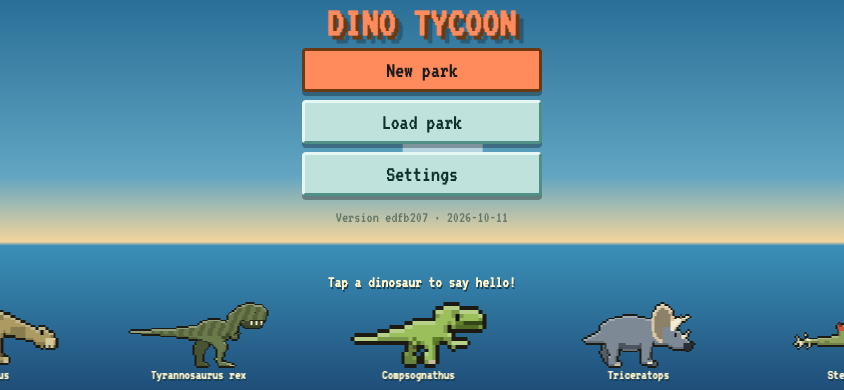
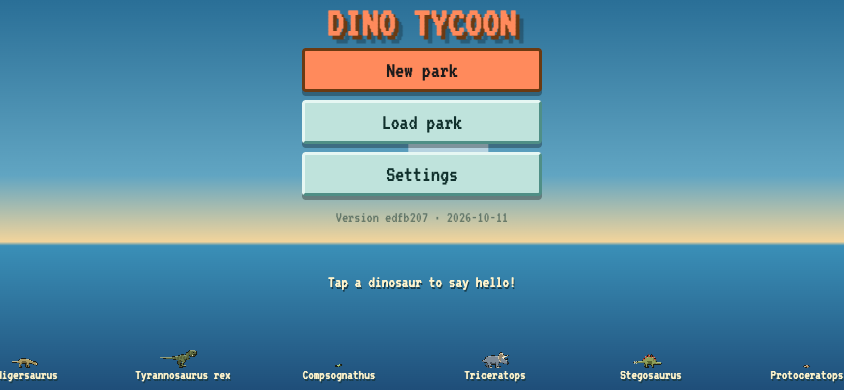
Match menu dinosaur sizes to the game and stabilize animation frames

diff --git a/src/ui/menuParade.ts b/src/ui/menuParade.ts
@@ -1,10 +1,10 @@
 import { SPECIES, SPECIES_IDS, habitatOf, type SpeciesId } from '../sim/data/species';
-import { paintMenuDino } from '../render/menuDino';
+import { paintMenuDino, menuDinoSize } from '../render/menuDino';
 import { motionFrame, type MotionClip } from '../render/immersionMotion';
 import { playCall, playSfx } from '../audio/audio';
 import { getSettings } from './settings';
 
-type Animal = { button: HTMLButtonElement; img: HTMLImageElement; id: SpeciesId; index: number; taps: number; reactionUntil: number; clip: MotionClip; frame: number };
+type Animal = { button: HTMLButtonElement; img: HTMLImageElement; id: SpeciesId; index: number; taps: number; reactionUntil: number; reactionStarted: number; clip: MotionClip; frame: number };
 
 export function mountMenuParade(root: HTMLElement): void {
   const parade = root.querySelector<HTMLElement>('.menu-parade')!;
@@ -14,10 +14,13 @@ export function mountMenuParade(root: HTMLElement): void {
   status.setAttribute('aria-live', 'polite'); status.textContent = 'Tap a dinosaur to say hello!';
   const animals: Animal[] = [];
   const frames = new Map<string, string>();
+  const sizes = new Map<SpeciesId, {width:number;height:number}>();
   function image(id: SpeciesId, clip: MotionClip, frame: number): string {
     const key = `${id}:${clip}:${frame}`;
     let url = frames.get(key);
-    if (!url) { url = paintMenuDino(id, clip, frame).toDataURL(); frames.set(key, url); }
+    if (!url) { const canvas=paintMenuDino(id,clip,frame);
+      if (!sizes.has(id)) sizes.set(id,menuDinoSize(canvas));
+      url=canvas.toDataURL();frames.set(key,url); }
     return url;
   }
   const featured: SpeciesId[] = ['tyrannosaurus','compsognathus','triceratops','stegosaurus'];
@@ -30,12 +33,18 @@ export function mountMenuParade(root: HTMLElement): void {
     const label = document.createElement('span'); label.className = 'menu-dino-name'; label.textContent = SPECIES[id].name;
     button.append(img, label); group.append(button);
   }
+  const tallest = Math.max(...[...sizes.values()].map(size=>size.height));
+  for (const button of group.querySelectorAll<HTMLButtonElement>('.menu-dino')) {
+    const size=sizes.get(button.dataset.species as SpeciesId)!;
+    button.style.setProperty('--dino-width',String(size.width/tallest));
+    button.style.setProperty('--dino-height',String(size.height/tallest));
+  }
   const duplicate = group.cloneNode(true) as HTMLElement;
   duplicate.setAttribute('aria-hidden','true');
   duplicate.querySelectorAll('button').forEach(b => b.tabIndex = -1);
   track.append(group, duplicate); parade.replaceChildren(status, track);
   for (const [index, button] of [...track.querySelectorAll<HTMLButtonElement>('.menu-dino')].entries()) {
-    const animal: Animal = {button,img:button.querySelector('img')!,id:button.dataset.species as SpeciesId,index,taps:0,reactionUntil:0,clip:'walk',frame:0};
+    const animal: Animal = {button,img:button.querySelector('img')!,id:button.dataset.species as SpeciesId,index,taps:0,reactionUntil:0,reactionStarted:0,clip:'walk',frame:0};
     animals.push(animal);
     button.addEventListener('focus', () => {
       if (!button.matches(':focus-visible') || matchMedia('(prefers-reduced-motion: reduce)').matches || !getSettings().animation) return;
@@ -49,9 +58,10 @@ export function mountMenuParade(root: HTMLElement): void {
     button.addEventListener('click', () => {
       const habitat = habitatOf(animal.id);
       const snack = animal.taps++ % 3 === 1;
-      const reaction = snack ? 'munch' : habitat === 'air' ? 'flutter' : habitat === 'water' ? 'splash' : animal.taps % 3 === 0 ? 'wiggle' : 'hop';
-      animal.clip = snack ? 'eat' : reaction === 'wiggle' ? 'idle' : 'walk';
-      animal.reactionUntil = performance.now() + 1800; animal.frame = -1;
+      const reaction = snack ? 'munch' : habitat === 'air' ? 'flutter' : habitat === 'water' ? 'splash' : SPECIES[animal.id].size >= 3 ? 'nod' : animal.taps % 3 === 0 ? 'wiggle' : 'hop';
+      animal.clip = snack ? 'eat' : reaction === 'wiggle' || reaction === 'nod' ? 'idle' : 'walk';
+      animal.reactionStarted = performance.now();
+      animal.reactionUntil = animal.reactionStarted + 1800; animal.frame = -1;
       button.dataset.reaction = reaction;
       status.textContent = snack ? `${SPECIES[animal.id].name} says yum!` : `${SPECIES[animal.id].name} says hello!`;
       track.classList.add('is-playing');
@@ -74,11 +84,11 @@ export function mountMenuParade(root: HTMLElement): void {
     for (const a of animals) {
       const reacting = a.reactionUntil > now;
       if (reacting) playing = true;
-      else if (a.button.dataset.reaction) { delete a.button.dataset.reaction; a.clip = 'walk'; }
+      else if (a.button.dataset.reaction) { delete a.button.dataset.reaction; a.clip = 'walk'; a.frame = -1; }
       const r = a.button.getBoundingClientRect();
       if (r.right < 0 || r.left > innerWidth) continue;
       const animate = !reduced.matches && getSettings().animation;
-      const frame = animate ? motionFrame(a.id,a.clip,now + a.index * 137) : 0;
+      const frame = animate ? motionFrame(a.id,a.clip,reacting ? now-a.reactionStarted : now + a.index * 137) : 0;
       if (frame !== a.frame) { a.img.src = image(a.id,a.clip,frame); a.frame = frame; }
     }
     if (!playing && track.classList.contains('is-playing')) status.textContent = 'Tap a dinosaur to say hello!';

diff --git a/src/ui/style.css b/src/ui/style.css
@@ -1352,33 +1352,33 @@ body:not(.in-park) #info {
 }
 
 .menu:not([data-screen='main']) .menu[data-screen='main'] .menu-content { height: calc(100% - 174px); padding-bottom: 14px; }
-.menu-parade { position: absolute; left: 0; right: 0; bottom: calc(var(--safe-bottom) + 6px); height: 158px; overflow: hidden; }
+.menu-parade { --parade-dino-height: 98px; position: absolute; left: 0; right: 0; bottom: calc(var(--safe-bottom) + 6px); height: 158px; overflow: hidden; }
 .menu-parade-hint { margin: 0 0 4px; text-align: center; color: #fff4cc; font-size: 12px; text-shadow: 1px 2px 0 #173b4a; min-height: 20px; }
 .menu-parade-track { display: flex; width: max-content; animation: parade 180s linear infinite; }
 .menu-parade-track.is-playing, .menu-parade-track:has(.menu-dino:focus-visible) { animation-play-state: paused; }
 .menu-parade-group { display: flex; align-items: flex-end; gap: 48px; padding-right: 48px; min-width: 100vw; flex: none; }
-.menu-dino { position: relative; display: flex; flex-direction: column; align-items: center; justify-content: flex-end; width: 204px; height: 128px; flex: none; padding: 6px 0; border: 0; box-shadow: none; background: transparent; touch-action: manipulation; cursor: pointer; }
-.menu-dino img { width: 192px; height: 98px; object-fit: contain; image-rendering: pixelated; transform-origin: center bottom; pointer-events: none; }
+.menu-dino { position: relative; display: flex; flex-direction: column; align-items: center; justify-content: flex-end; width: max(108px, calc(var(--dino-width) * var(--parade-dino-height) + 12px)); height: 128px; flex: none; padding: 6px 0; border: 0; box-shadow: none; background: transparent; touch-action: manipulation; cursor: pointer; }
+.menu-dino img { width: calc(var(--dino-width) * var(--parade-dino-height)); height: calc(var(--dino-height) * var(--parade-dino-height)); object-fit: fill; image-rendering: pixelated; transform-origin: center bottom; pointer-events: none; }
 .menu-dino-name { color: #fff4cc; text-shadow: 1px 2px 0 #173b4a; font-size: 10px; white-space: nowrap; }
 .menu-dino:focus-visible { outline: 3px solid #fff4cc; outline-offset: -3px; border-radius: 12px; }
 .menu-dino[data-reaction='hop'] img { animation: menu-hop .6s ease-in-out 3; }
 .menu-dino[data-reaction='wiggle'] img { animation: menu-wiggle .45s ease-in-out 4; }
 .menu-dino[data-reaction='flutter'] img { animation: menu-flutter .6s ease-in-out 3; }
 .menu-dino[data-reaction='splash'] img { animation: menu-splash .9s ease-in-out 2; }
-.menu-dino[data-reaction='munch'] img { animation: menu-munch .45s ease-in-out 4; }
+.menu-dino[data-reaction='munch'] img { animation: none; }
+.menu-dino[data-reaction='nod'] img { animation: menu-nod .9s ease-in-out 2; }
 @keyframes parade { from { transform: translateX(-50%); } to { transform: translateX(0); } }
-@keyframes menu-hop { 40% { transform: translateY(-14px) rotate(-4deg); } 70% { transform: scale(1.06,.94); } }
+@keyframes menu-hop { 40% { transform: translateY(calc(-1 * min(14px, calc(var(--dino-height) * var(--parade-dino-height) * .25)))) rotate(-4deg); } 70% { transform: translateY(0); } }
 @keyframes menu-wiggle { 25% { transform: rotate(-7deg); } 75% { transform: rotate(7deg); } }
-@keyframes menu-flutter { 50% { transform: translateY(-18px) rotate(5deg); } }
-@keyframes menu-splash { 50% { transform: translateY(14px) rotate(-6deg); } }
-@keyframes menu-munch { 50% { transform: translateY(3px) rotate(3deg); } }
+@keyframes menu-flutter { 50% { transform: translateY(calc(-1 * min(18px, calc(var(--dino-height) * var(--parade-dino-height) * .5)))) rotate(5deg); } }
+@keyframes menu-splash { 50% { transform: translateY(min(8px, calc(var(--dino-height) * var(--parade-dino-height) * .25))) rotate(-6deg); } }
+@keyframes menu-nod { 50% { transform: translateY(2px); } }
 @media (max-height: 480px) {
   .menu[data-screen='main'] .menu-content { height: calc(100% - 118px); padding-top: 8px; }
   .menu[data-screen='main'] .menu-title { font-size: 32px; }
   .menu[data-screen='main'] .menu-title br { display: none; }
-  .menu-parade { height: 110px; }
-  .menu-dino { width: 172px; height: 84px; padding: 0; }
-  .menu-dino img { width: 160px; height: 66px; }
+  .menu-parade { --parade-dino-height: 66px; height: 110px; }
+  .menu-dino { height: 84px; padding: 0; }
 }
 @media (prefers-reduced-motion: reduce) {
   .menu-parade { overflow-x: auto; }

diff --git a/src/render/menuDino.ts b/src/render/menuDino.ts
@@ -1,18 +1,21 @@
 import { SPECIES, type SpeciesId } from '../sim/data/species';
 import { ART_STYLE, type ArtStyle } from './artStyle';
-import { paintDino, paintDinoRows, dinoCanvasBounds } from './dinoArt';
+import { paintDino, paintDinoRows } from './dinoArt';
+import { dinoWorldScale } from './dinoSize';
 import { BLENDER_MOTION } from './generated/blenderMotion';
-import { paintCartoonAsset } from './cartoonArt';
+import { paintCartoonAsset, cartoonMetadata } from './cartoonArt';
 import type { MotionClip } from './immersionMotion';
 
-/** Menu portraits use native artwork, independently of the park's metre scale. */
+/** Use the game's scale and fixed animation canvas; cropping each pose causes stretching. */
 export function paintMenuDino(id: SpeciesId, clip: MotionClip = 'walk', frame = 0, style: ArtStyle = ART_STYLE): HTMLCanvasElement {
-  const source = style === 'cartoon' ? paintCartoonAsset(id, frame, SPECIES[id], false, 1, clip)
-    : style === 'blender' ? paintDinoRows(SPECIES[id], BLENDER_MOTION[id][clip].frames[frame], false)
-    : paintDino(SPECIES[id], frame % 2, false, style);
-  const b = dinoCanvasBounds(source);
-  const canvas = document.createElement('canvas');
-  canvas.width = b.right - b.left; canvas.height = b.bottom - b.top;
-  canvas.getContext('2d')!.drawImage(source, b.left, b.top, canvas.width, canvas.height, 0, 0, canvas.width, canvas.height);
-  return canvas;
+  const scale = dinoWorldScale(id, style);
+  return style === 'cartoon' ? paintCartoonAsset(id, frame, SPECIES[id], false, scale, clip)
+    : style === 'blender' ? paintDinoRows(SPECIES[id], BLENDER_MOTION[id][clip].frames[frame], false, scale)
+    : paintDino(SPECIES[id], frame % 2, false, style, scale);
+}
+
+/** Supersampling changes texture pixels, never the dinosaur's displayed world size. */
+export function menuDinoSize(canvas: HTMLCanvasElement): {width:number;height:number} {
+  const resolution = cartoonMetadata(canvas)?.resolution ?? 1;
+  return {width:canvas.width/resolution,height:canvas.height/resolution};
 }

diff --git a/docs/menu-fun/README.md b/docs/menu-fun/README.md
@@ -1,11 +1,9 @@
-# Bigger, playful menu dinosaurs
+# Playful menu dinosaurs
 
-The menu displays each species at a readable portrait size instead of sharing the park's metre scale. T. rex, Compsognathus, Triceratops and Stegosaurus lead a complete 28-species walking parade. Tap animals for happy hops, wiggles, wing flutters, swimmer bobs and a chewing/snack response. The scrolling pauses during the reaction, then resumes. Species labels and keyboard buttons make the animals discoverable.
+The menu uses the same species scales as the park, including the user's 2× Compsognathus adjustment, with one common responsive zoom. Dinosaur bodies retain their relative sizes; labels and tap targets remain large. Full animation canvases keep stable dimensions so walking and eating do not stretch or resize the body. T. rex, Compsognathus, Triceratops and Stegosaurus lead the 28-species parade.
 
-Park pats and treats now trigger body reactions and chewing poses as well as hearts. These reactions use real time and finish even while park time is paused; normal movement and simulation positions remain unchanged. Animation preferences are respected. Saves remain version 21.
+Tap animals for greetings, small hops, wing flutters, swimming bobs and chewing. Large land animals such as Nigersaurus give gentle nods. Hops scale with body height and do not squash/stretch the image. Reactions pause the scrolling briefly and start their pose sequence from the tap. Park pats and treats still animate body reactions while park time is paused. Reduced motion, animation settings and keyboard access are supported. Saves remain v21.
 
-Browser verification covered both artwork styles at desktop, 667×375, 844×390, 390×844 and 820×1180. Compsognathus renders about 66px tall on short landscape screens and about 84–96px on taller screens. All menu species remain visible/readable, New park is unobstructed, and tap reactions return to scrolling. The spacing/seam review also covered a 7680px-wide viewport, keyboard navigation and reduced motion. Real phone taps verified selection, treating, hungry-dinosaur refusal and photo capture. Unit tests cover habitat-specific care, every chewing frame, cleanup and animation-off feedback.
+Browser checks cover desktop, 667×375, 844×390, 390×844 and 820×1180, with one shared menu zoom and unobstructed New park controls. `menu-scale-review.mjs` checks all 896 adult frames per artwork style for stable dimensions and the correct source size; the Nigersaurus contact sheets show all eight poses for walking, idle and eating.
 
-Run `npm run check:menu-fun` with the dev server on port 5174, or set `BASE_URL`; `ART_STYLE=cartoon` reviews the alternative. See [core phone menu](blender/menu-844x390.png) and [cartoon phone menu](cartoon/menu-844x390.png).
-
-Final validation: 487 regular tests plus the performance benchmark passed; TypeScript and production build passed. Production/offline checks confirmed the new menu portraits, saved-park resume, animation, three-tap hatching and persisted baby names. Rotated care reactions use transformed silhouette bounds for fence masking.
+Run `npm run check:menu-fun` or `npm run check:menu-scale` with the dev server on port 5174, or set `BASE_URL`; `ART_STYLE=cartoon` reviews the alternative. See [core phone menu](blender/menu-844x390.png) and [cartoon phone menu](cartoon/menu-844x390.png).

diff --git a/HANDOFF.md b/HANDOFF.md
@@ -1,5 +1,12 @@
 # Dino Tycoon: handoff notes
 
+## Restore game proportions in the menu — October 11, 2026
+
+The user requested the game's relative species sizes again after the portrait enlargement. Menu sprites now use `dinoWorldScale` for the selected edition, including the existing 2× Compsognathus adjustment, and share one responsive parade zoom. Full motion canvases retain identical dimensions across all clips and frames; per-frame cropping/resizing was making animals such as Nigersaurus appear to stretch. Label/touch targets remain large independently of body size. Large land animals now give gentle nods; smaller hops and flutters scale with the animal's height, squash/stretch is removed, and treats animate only the authored chewing poses. Reaction clips start from the tap and reset correctly on return to walking. Park sizes, authored motion files, simulation and v21 saves retain their current behavior.
+
+`npm run check:menu-scale` checks all 896 adult frames per art style, fixed dimensions, game silhouette sizes and the common zoom. Nigersaurus contact sheets and results are under `docs/menu-scale-review`. `check:menu-fun` now verifies shared scale across desktop/phone/tablet layouts and includes Nigersaurus nod/chew interactions.
+
+
 ## Bigger, playful dinosaurs — October 11, 2026
 
 The title parade now uses native cropped portraits independently of world metre scales. Every species has a readable 192×98 fit box (160×66 in short landscape screens), labeled 44px+ tap targets and authored walking frames. T. rex, Compsognathus, Triceratops and Stegosaurus lead the same complete 28-species loop. Taps pause the scroll for hops/wiggles, aerial flutters or swimmer bobs; subsequent taps cycle through snacks/chewing and greetings. Only visible animals advance, frames are cached lazily, and animation stops after starting a park. Reduced motion and the animation setting provide a static, manually scrollable roster. Duplicate loop buttons are excluded from keyboard navigation; focusing an original animal brings it into view.

diff --git a/docs/menu-scale-review/README.md b/docs/menu-scale-review/README.md
@@ -1,0 +1,9 @@
+# Game-scale menu animation correction
+
+Menu dinosaurs now use the same `dinoWorldScale` and animation painter as their park counterparts. One shared zoom fits the parade's height. The old individual portrait fitting and per-frame cropping made different species look similarly sized and made frames of changing silhouette width expand/contract. Fixed full canvases preserve proportions, frame positions and foot placement. In particular, Nigersaurus no longer alternates between differently fitted image sizes, and its menu greeting is a gentle nod.
+
+The browser review checks all 896 adult poses (28 species × four clips × eight frames) per artwork style. Every clip has a stable canvas; core-game body dimensions match the game's painted silhouettes; all displayed species share the same CSS zoom within subpixel rounding. Phone interaction checks also cover Nigersaurus nods and chewing, plus keyboard access and reduced motion.
+
+Run `npm run check:menu-scale` with the dev server on port 5174, or supply `BASE_URL`; use `ART_STYLE=cartoon` for that edition. [Core Nigersaurus frames](blender/nigersaurus.png), [core menu](blender/menu-desktop.png), [cartoon Nigersaurus frames](cartoon/nigersaurus.png).
+
+Release checks: 487 regular tests plus the performance benchmark passed; TypeScript and production build passed. Both editions passed phone/tablet interactions and fixed-frame checks. Seamless scrolling, keyboard access, offline menu artwork, saved-park resume, hatching and saved baby names passed.
